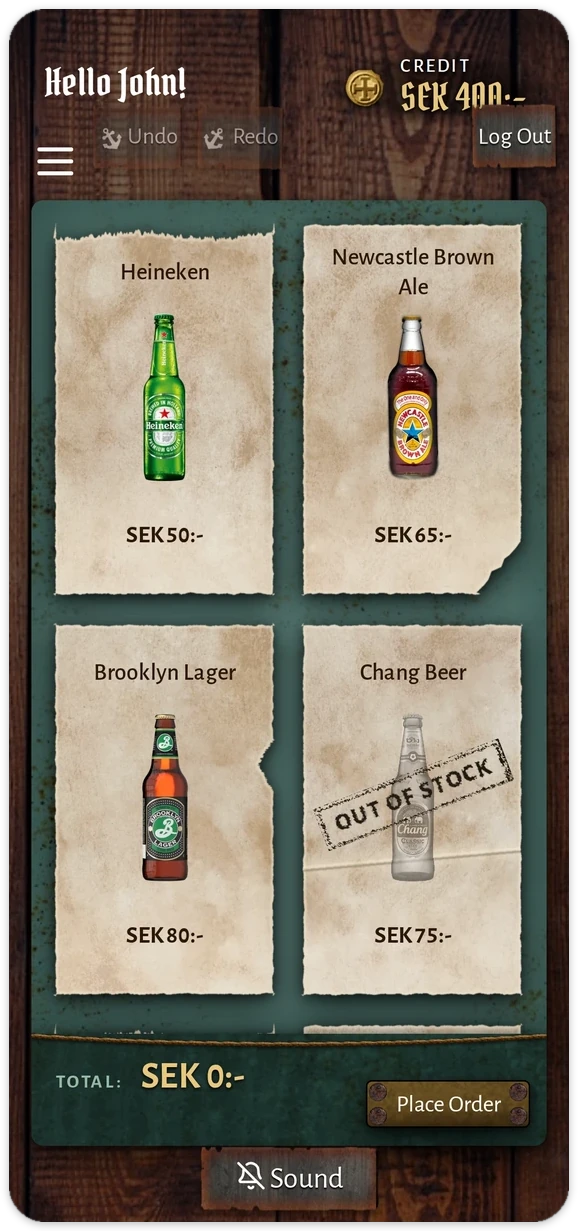
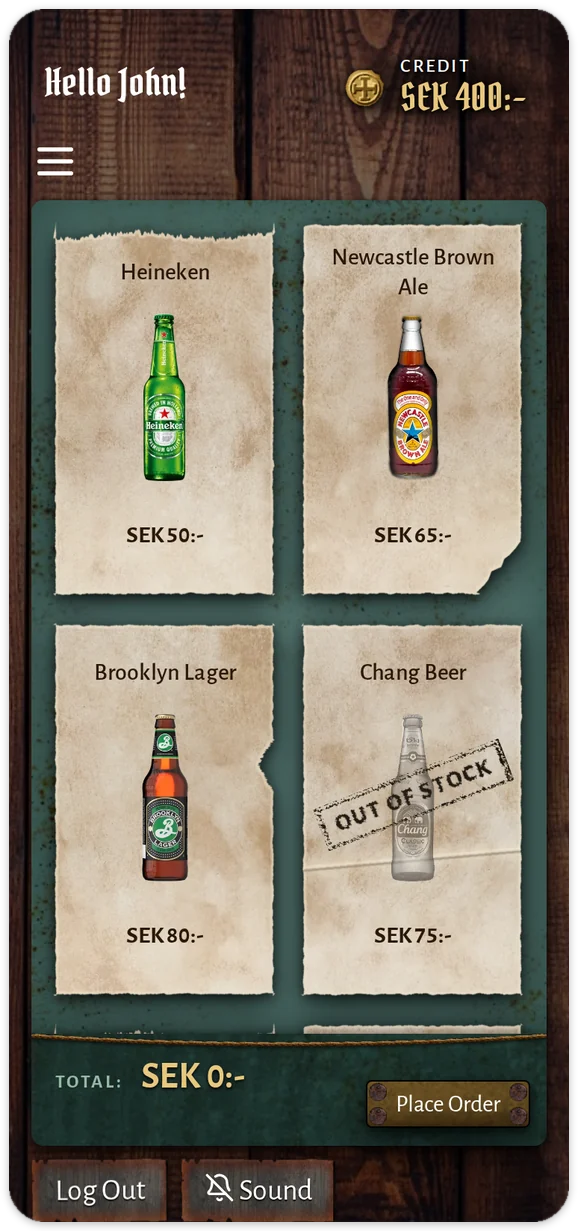
docs: fresh v2 screenshots, new demo URL
- Retake the six 2026 README screenshots from the current build
  (staff label alignment, phone footer buttons), in the same frames
- Point the live demo at the-flying-dutchman.h-odimi.workers.dev
- Phone alt text names the Log Out and Sound footer

diff --git a/README.md b/README.md
@@ -9,9 +9,9 @@
 ![WCAG 2.2 AA](https://img.shields.io/badge/WCAG-2.2%20AA-1f6f5c)
 ![Stack: HTML, CSS and jQuery, no framework](https://img.shields.io/badge/HTML%20%C2%B7%20CSS%20%C2%B7%20jQuery-no%20framework-555)
 
-<a href="https://the-flying-dutchman.hassan-odimi.workers.dev/"><img src="docs/readme/hero.webp" alt="The Flying Dutchman landing page: an aged-parchment ship logo in a green storm, a brass Order your Drinks sign and five tattered language flags" width="760"></a>
+<a href="https://the-flying-dutchman.h-odimi.workers.dev/"><img src="docs/readme/hero.webp" alt="The Flying Dutchman landing page: an aged-parchment ship logo in a green storm, a brass Order your Drinks sign and five tattered language flags" width="760"></a>
 
-**[Live demo](https://the-flying-dutchman.hassan-odimi.workers.dev/)** &nbsp;·&nbsp; [Case study](https://TODO-hassan-odimi.se)
+**[Live demo](https://the-flying-dutchman.h-odimi.workers.dev/)** &nbsp;·&nbsp; [Case study](https://TODO-hassan-odimi.se)
 
 </div>
 
@@ -47,7 +47,7 @@
   </tr>
   <tr>
     <td align="center"><img src="docs/readme/phone-before.png" alt="2018 customer view at phone width: one drink per row on grey cards, a red Log Out button and the flags below the order bar" width="170"></td>
-    <td align="center"><img src="docs/readme/phone-after.webp" alt="2026 customer view at phone width: two parchment drink cards per row, the credit coin, and the order total with Place Order in a bar at the bottom" width="170"></td>
+    <td align="center"><img src="docs/readme/phone-after.webp" alt="2026 customer view at phone width: two parchment drink cards per row, the credit coin, the order total with Place Order, and Log Out and Sound below" width="170"></td>
   </tr>
 </table>
 
